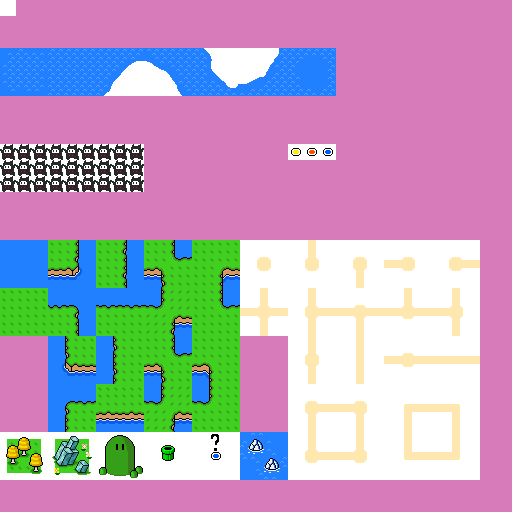
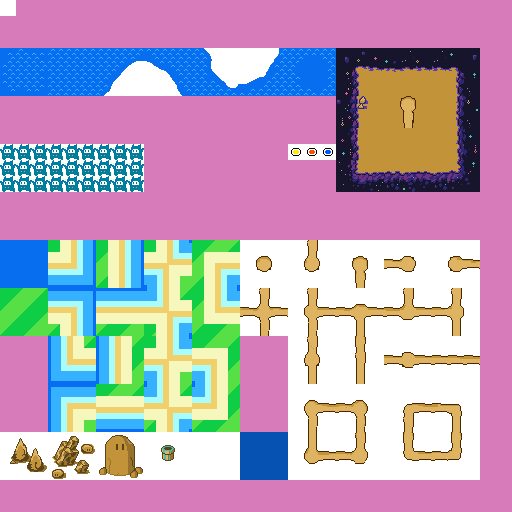
Update assets & colors

diff --git a/src/game.ts b/src/game.ts
@@ -105,7 +105,7 @@ type Neighbour = {
 }
 
 const THEMES = [
-    { color: hex_to_color(0x2080ffff), atlas: "/worldmap/images/atlas.png" },
+    { color: hex_to_color(0x076ef0ff), atlas: "/worldmap/images/atlas.png" },
     { color: hex_to_color(0x17152cff), atlas: "/worldmap/images/atlas_dark.png" },
 ];
 
